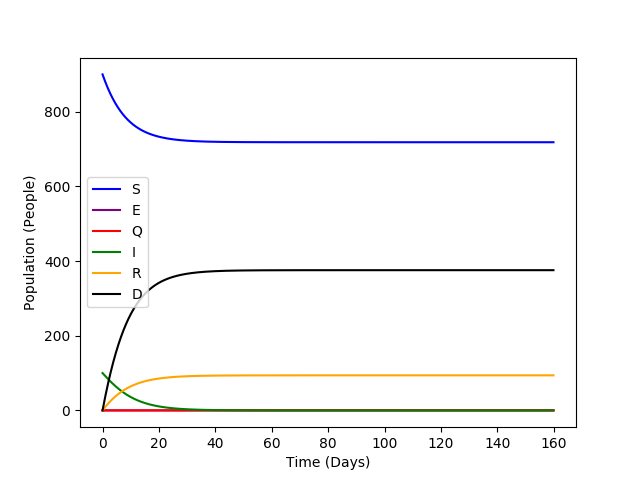
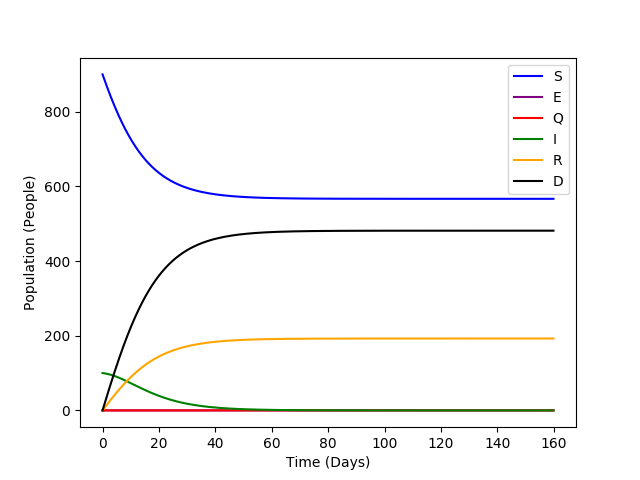
adding files

diff --git a/hrenard_program3.py b/hrenard_program3.py
@@ -9,7 +9,7 @@ def runsim(
 	contact_factor = .4,                          		# (contact / day) / person
 	mean_exposed = 2,                               	# day
 	mean_quarantine = 3,					# day
-	mean_death = 5,                                 	# day
+	mean_death = 8,                                 	# day
 	plot = True):
 	
 	recovery_factor = 1 / mean_infectious_duration    	# 1 / day
